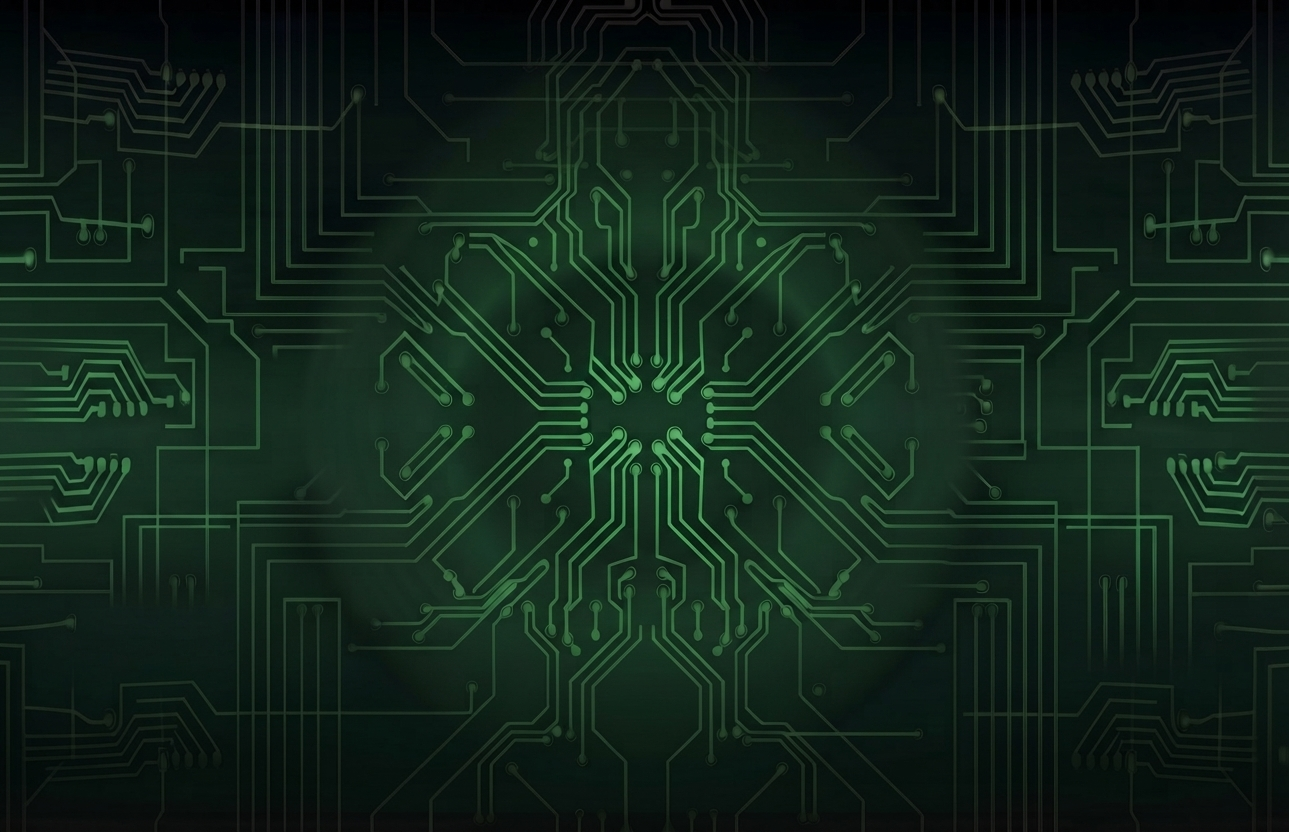
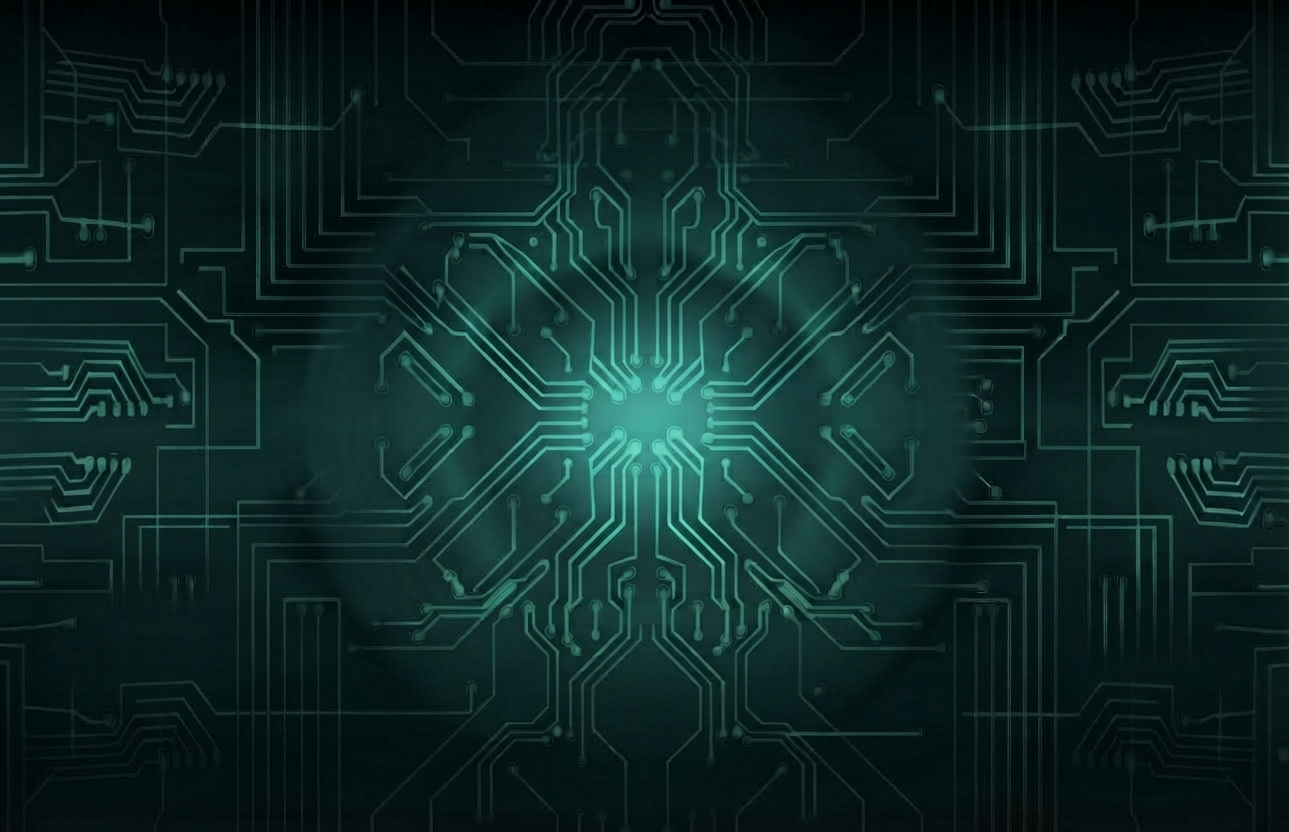
Character Card

diff --git a/src/styles/character.css b/src/styles/character.css
@@ -1,0 +1,53 @@
+.character-card{
+    display: flex;
+    flex-direction: column;
+    border: 5px solid RGB(30,81,75);
+    box-shadow: 0 0 10px RGB(30,81,75);
+    border-radius: 20px;
+    width: 220px;
+    padding: 10px;
+    background-color: rgba(0,14,12,1);
+}
+
+.img-character{
+    width: 100%;
+    height: 100%;
+    border-radius: 17px;
+    overflow: hidden;
+    object-fit: cover;
+}
+
+.img-character img{
+    width: 100%;
+    height: 100%;
+    border-radius: 15px;
+
+}
+
+.character-info{
+    display: flex;
+    flex-direction: column;
+    font-family: Arial, Helvetica, sans-serif;
+    color:white;
+    font-size: 20px;
+    gap: 10px;
+}
+
+.name{
+    font-size: 30px;
+    margin: 0;
+}
+
+.info{
+    display: flex;
+    flex-direction: row;
+    justify-items: center;
+    gap: 5px;
+}
+
+.info-1-1{
+    width: 15px;
+    height: 15px;
+    background-color: green;
+    border-radius: 15px;
+}

diff --git a/src/components/Character.jsx b/src/components/Character.jsx
@@ -1,0 +1,26 @@
+const Character = () => {
+    return (
+        <div className="character-card">
+            <div className="img-character">
+                <img src="https://rickandmortyapi.com/api/character/avatar/1.jpeg" alt="Rick Sanchez"/>
+            </div>
+            <div className="character-info">
+                <h3 className="name">Rick Sanchez</h3>
+                <div className="info">
+                    <div className = "info-1-1"></div>
+                    <span>Alive</span>
+                </div>
+                <div className="info">
+                    <div className = "info-2-1"></div>
+                    <span>Human</span>
+                </div>
+                <div className="info">
+                    <div className = "info-3-1"></div>
+                    <span>Earth C-137</span>
+                </div>
+            </div>
+        </div>
+    )
+}
+
+export default Character

diff --git a/src/styles/button.css b/src/styles/button.css
@@ -1,4 +1,4 @@
-button{
+.navigation-button{
     height: 100%;
     border-radius: 10px 10px 0 0;
     border-top: none;
@@ -12,16 +12,16 @@ button{
     font-size: 24px;
 }
 
-button:hover{
+.navigation-button:hover{
     background-color: RGBA(34,119,65,0.05);
     border-top: none;
     border-right: none;
     border-left: none;
     border-bottom: 1px solid RGBA(34,119,65,0.5);
-    color: RGBA(34,119,65,0.8);
+    color: RGBA(68,173,106, 0.8);
 }
 
-button:active{
+.navigation-button:active{
     background: RGBA(34,119,65,0.1);
     border-bottom: 2px solid RGBA(34,119,65,1);
     color: RGBA(34,119,65,1);

diff --git a/src/components/NavigationMenu.jsx b/src/components/NavigationMenu.jsx
@@ -4,9 +4,9 @@ const NavigationMenu = () => {
     const menuItems = ["Characters", "Locations", "Episodes", "Search"]
     return (
         <nav className="navigation">
-            {menuItems.map((items) => (
-                <NavigationButton type='buttom'>
-                    {items}
+            {menuItems.map((item) => (
+                <NavigationButton type='button'>
+                    {item}
                 </NavigationButton>
     ))}
         </nav>

diff --git a/src/App.jsx b/src/App.jsx
@@ -1,8 +1,12 @@
 import Header from "./components/Header.jsx"
+import Character from "./components/Character.jsx";
 const App = () => {
 
   return (
+      <>
       <Header />
+      <Character />
+      </>
   )
 }
 

diff --git a/src/styles/logo.css b/src/styles/logo.css
@@ -7,8 +7,9 @@
 .logo_text{
     text-align: center;
     font-family: GetSchwifty, serif;
-    color: #1b8a5a;
+    color: RGB(73,149,115);
     font-size: 32px;
+    white-space: nowrap;
 }
 
 .logo_img{

diff --git a/src/components/NavigationButton.jsx b/src/components/NavigationButton.jsx
@@ -1,6 +1,6 @@
 const NavigationButton = (props) => {
     const {
-        className = "",
+        className = 'navigation-button',
         type = "button",
         children,
     } = props

diff --git a/src/main.jsx b/src/main.jsx
@@ -4,6 +4,7 @@ import { createRoot } from 'react-dom/client'
 import App from './App.jsx'
 
 
+
 createRoot(document.getElementById('root')).render(
   <StrictMode>
     <App />

diff --git a/src/styles/index.js b/src/styles/index.js
@@ -3,3 +3,4 @@ import './fonts.css'
 import './header.css'
 import './button.css'
 import './logo.css'
+import './character.css'
